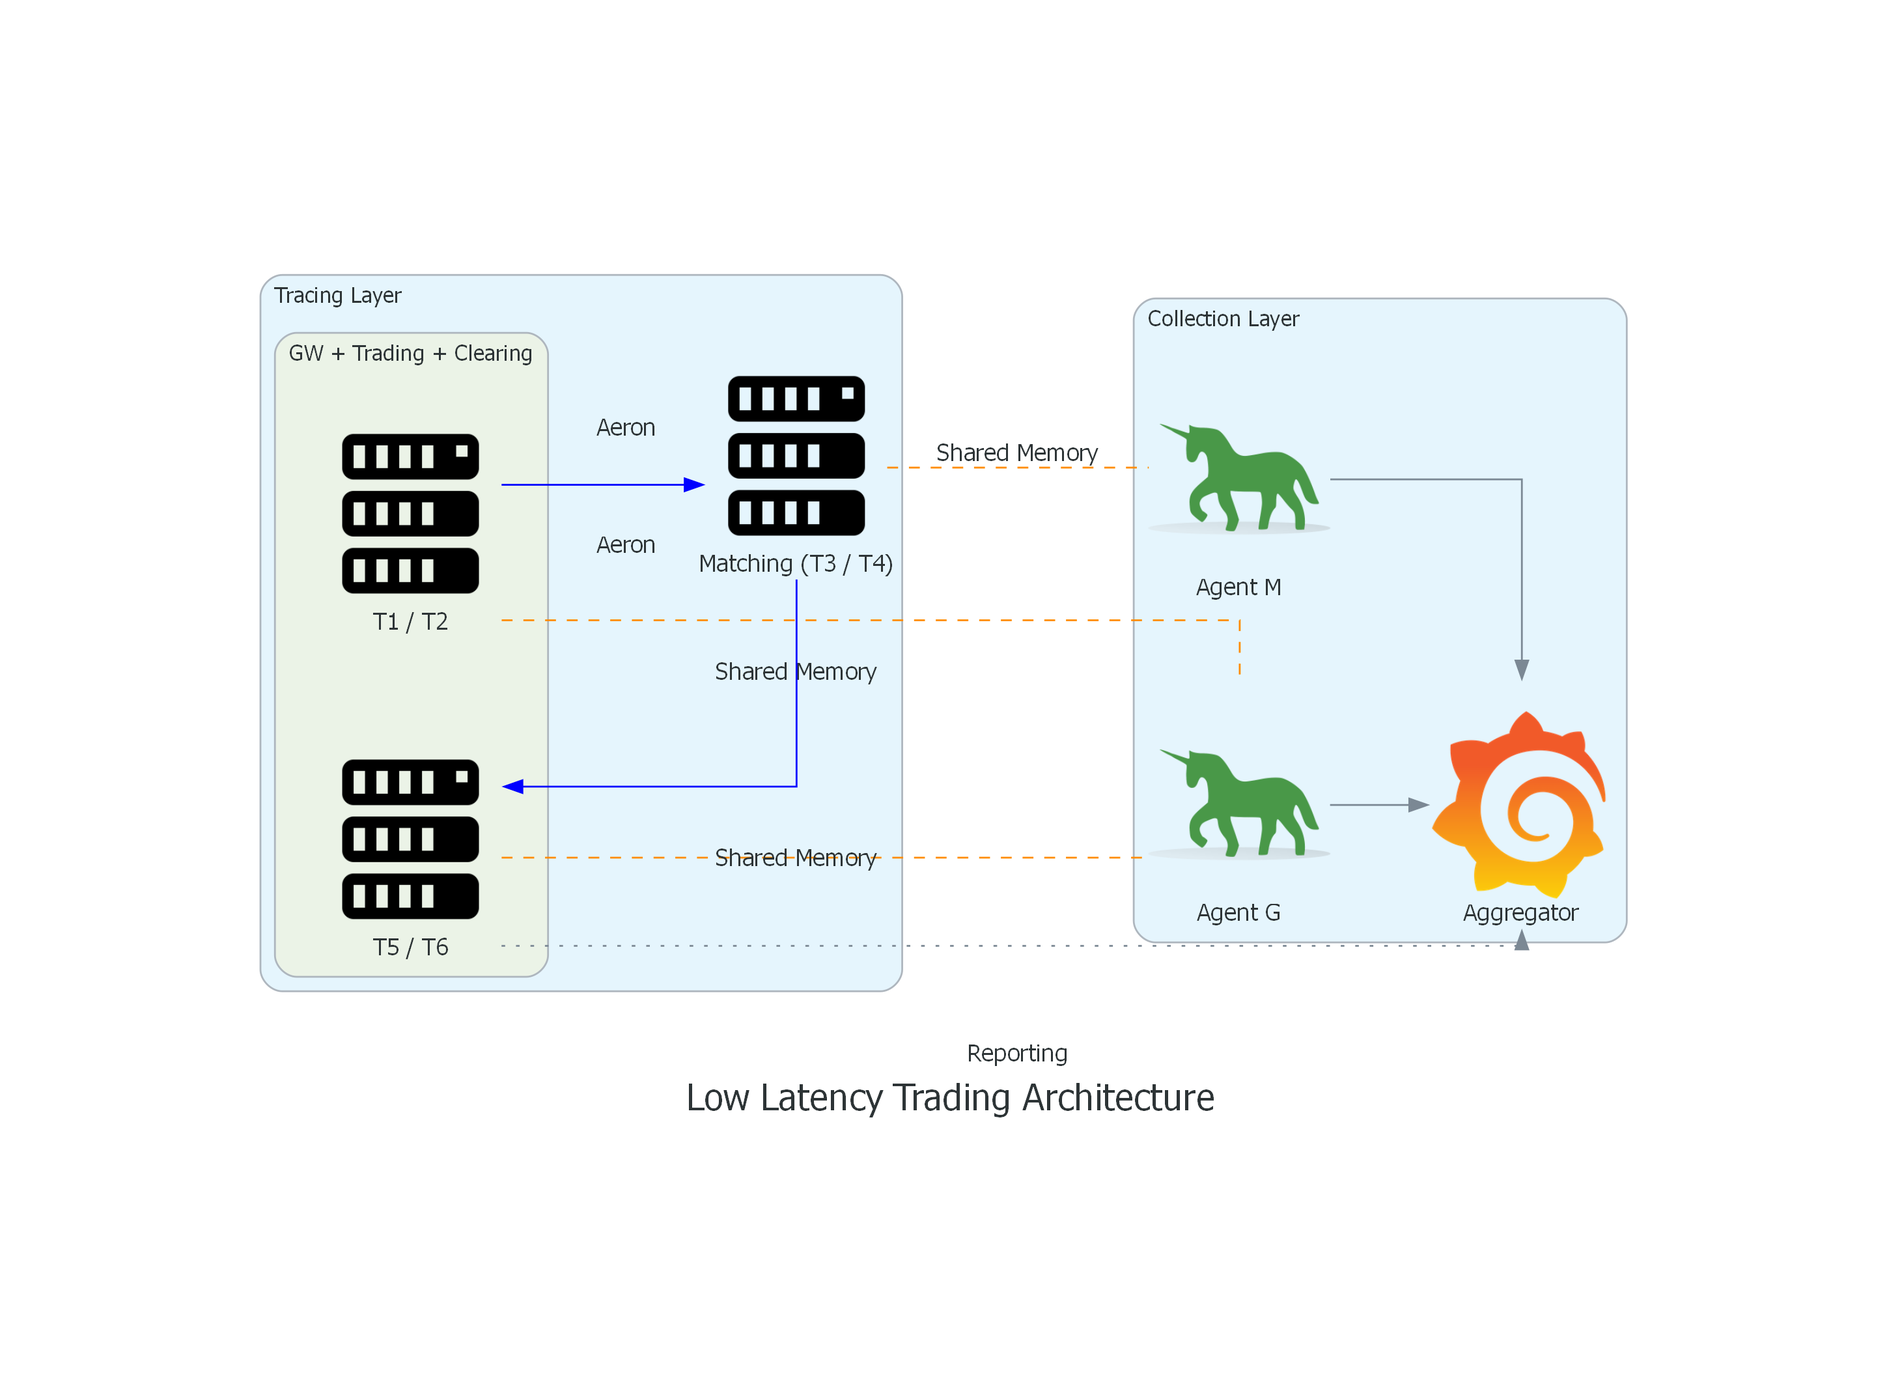
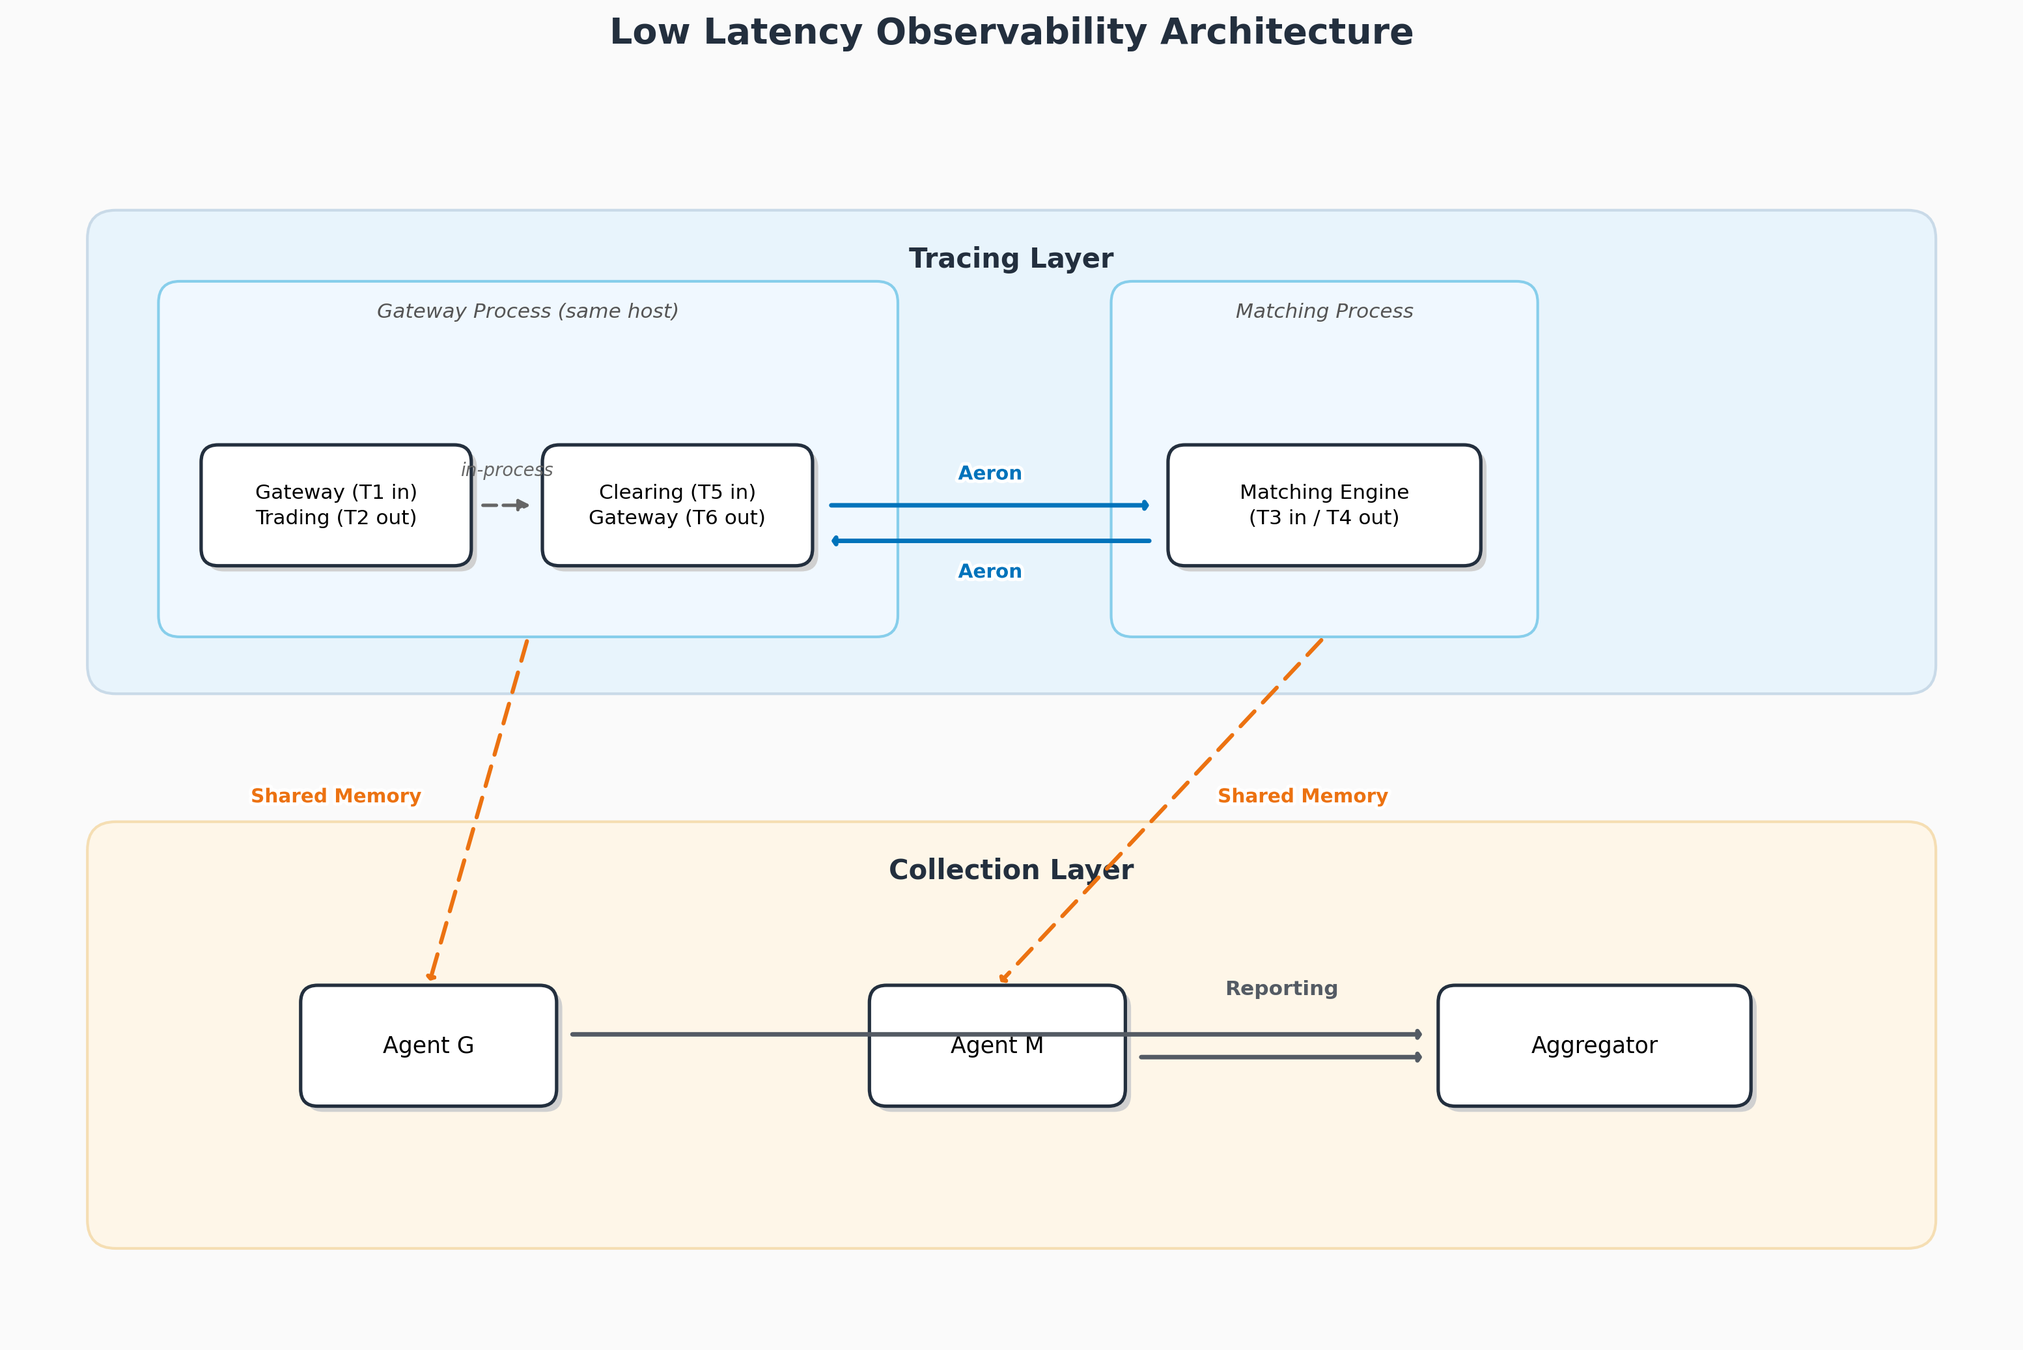
docs(observability): SDK approach, sampling interval, symmetric diagram
Add .gitattributes; ignore in benchmark/build/code-quality workflows

diff --git a/docs/scripts/generate_observability_diagram.py b/docs/scripts/generate_observability_diagram.py
@@ -2,22 +2,122 @@
 """
 生成低延迟可观测性架构图 (Tracing Layer + Collection Layer)。
 输出到 docs/images/observability_architecture.png
-依赖: pip install diagrams，且系统已安装 Graphviz (winget install graphviz.graphviz)。
+风格参考 AWS 架构图：圆角矩形、分组背景、清晰箭头与标签。
+依赖: pip install matplotlib
 """
 
 import os
+import matplotlib.pyplot as plt
+from matplotlib.patches import FancyBboxPatch, FancyArrowPatch
+import matplotlib.patheffects as path_effects
 
-from diagrams import Cluster, Diagram, Edge
-from diagrams.onprem.compute import Server
-from diagrams.onprem.monitoring import Grafana
-from diagrams.onprem.network import Gunicorn
+# ============================================================================
+# 风格常量 (AWS-style, 顶流级)
+# ============================================================================
+BG_COLOR = "#fafafa"
+GROUP_BG_TRACING = "#e8f4fc"
+GROUP_BG_COLLECTION = "#fef6e8"
+GROUP_BORDER = "#c9dae8"
+PROCESS_BG = "#f0f8ff"           # 进程分组背景（更浅的蓝）
+PROCESS_BORDER = "#87ceeb"
+BOX_BG = "#ffffff"
+BOX_BORDER = "#232f3e"
+BOX_SHADOW = "#d0d0d0"
+DATA_COLOR = "#0073bb"
+AERON_COLOR = "#0073bb"
+SHARED_MEM_COLOR = "#ec7211"
+REPORT_COLOR = "#545b64"
+FONT_NAME = "sans-serif"
+TITLE_SIZE = 16
+LAYER_LABEL_SIZE = 12
+LABEL_SIZE = 10
+SMALL_LABEL = 9
+DPI = 250
+FIG_W, FIG_H = 14, 8.5
+BOX_RADIUS = 0.12
+SHADOW_OFFSET = 0.04
 
-# 提高 DPI 使 PNG 文字更清晰（Graphviz 默认 96，文档用 200–300 为宜）
-graph_attr = {
-    "dpi": "200",
-    "fontsize": "20",
-    "bgcolor": "white",
-}
+
+def draw_box_with_shadow(ax, x, y, w, h, label_lines, radius=BOX_RADIUS):
+    """绘制带阴影的圆角矩形框。"""
+    shadow = FancyBboxPatch(
+        (x + SHADOW_OFFSET, y - SHADOW_OFFSET), w, h,
+        boxstyle=f"round,pad=0,rounding_size={radius}",
+        facecolor=BOX_SHADOW, edgecolor="none", zorder=1
+    )
+    ax.add_patch(shadow)
+    box = FancyBboxPatch(
+        (x, y), w, h,
+        boxstyle=f"round,pad=0,rounding_size={radius}",
+        facecolor=BOX_BG, edgecolor=BOX_BORDER, linewidth=1.5, zorder=2
+    )
+    ax.add_patch(box)
+    mid_y = y + h / 2
+    if len(label_lines) == 1:
+        ax.text(x + w / 2, mid_y, label_lines[0], fontsize=LABEL_SIZE,
+                ha="center", va="center", fontfamily=FONT_NAME, zorder=3)
+    else:
+        line_gap = 0.18
+        top_y = mid_y + line_gap * (len(label_lines) - 1) / 2
+        for i, line in enumerate(label_lines):
+            ax.text(x + w / 2, top_y - i * line_gap, line, fontsize=SMALL_LABEL,
+                    ha="center", va="center", fontfamily=FONT_NAME, zorder=3)
+    return x, y, w, h
+
+
+def draw_group_bg(ax, x, y, w, h, label, color, border_color, radius=0.2, label_pos="top"):
+    """绘制分组背景。"""
+    bg = FancyBboxPatch(
+        (x, y), w, h,
+        boxstyle=f"round,pad=0,rounding_size={radius}",
+        facecolor=color, edgecolor=border_color, linewidth=1.2, zorder=0
+    )
+    ax.add_patch(bg)
+    if label_pos == "top":
+        ax.text(x + w / 2, y + h - 0.25, label, fontsize=LAYER_LABEL_SIZE,
+                ha="center", va="top", fontweight="bold", color="#232f3e",
+                fontfamily=FONT_NAME, zorder=1)
+    else:
+        ax.text(x + w / 2, y + h - 0.15, label, fontsize=SMALL_LABEL,
+                ha="center", va="top", fontweight="normal", color="#555555",
+                fontfamily=FONT_NAME, fontstyle="italic", zorder=1)
+
+
+def draw_arrow(ax, start, end, color, style="solid", label=None, curved=False, label_offset=(0, 0.12)):
+    """绘制箭头。"""
+    if curved:
+        dx = end[0] - start[0]
+        dy = end[1] - start[1]
+        if abs(dy) > abs(dx):
+            rad = 0.25 if dx > 0 else -0.25
+        else:
+            rad = 0.15 if dy < 0 else -0.15
+        conn_style = f"arc3,rad={rad}"
+    else:
+        conn_style = "arc3,rad=0"
+
+    arrow = FancyArrowPatch(
+        start, end,
+        arrowstyle="-|>,head_width=0.12,head_length=0.08",
+        connectionstyle=conn_style,
+        color=color,
+        linewidth=2.0 if style == "solid" else 1.8,
+        linestyle="-" if style == "solid" else (0, (5, 3)),
+        zorder=4,
+        mutation_scale=12
+    )
+    ax.add_patch(arrow)
+
+    if label:
+        mid_x = (start[0] + end[0]) / 2 + label_offset[0]
+        mid_y = (start[1] + end[1]) / 2 + label_offset[1]
+        t = ax.text(mid_x, mid_y, label, fontsize=SMALL_LABEL - 0.5, ha="center", va="center",
+                    color=color, fontfamily=FONT_NAME, fontweight="bold", zorder=5)
+        t.set_path_effects([
+            path_effects.Stroke(linewidth=3, foreground="white"),
+            path_effects.Normal()
+        ])
+
 
 def main():
     script_dir = os.path.dirname(os.path.abspath(__file__))
@@ -26,37 +126,152 @@ def main():
     os.makedirs(images_dir, exist_ok=True)
     out_path = os.path.join(images_dir, "observability_architecture")
 
-    with Diagram(
-        "Low Latency Trading Architecture",
-        show=False,
-        direction="LR",
-        graph_attr=graph_attr,
-        filename=out_path,
-    ):
-        with Cluster("Tracing Layer"):
-            with Cluster("GW + Trading + Clearing"):
-                gw_in = Server("T1 / T2")
-                gw_out = Server("T5 / T6")
+    fig, ax = plt.subplots(1, 1, figsize=(FIG_W, FIG_H), facecolor=BG_COLOR)
+    ax.set_facecolor(BG_COLOR)
+    ax.set_aspect("equal")
+    ax.axis("off")
+    ax.set_xlim(0, 14)
+    ax.set_ylim(0, 8.5)
 
-            matching = Server("Matching (T3 / T4)")
+    # ========================================================================
+    # 布局参数
+    # ========================================================================
+    tracing_y = 4.5
+    tracing_h = 3.4
+    collection_y = 0.6
+    collection_h = 3.0
 
-            gw_in >> Edge(label="Aeron", color="blue") >> matching
-            matching >> Edge(label="Aeron", color="blue") >> gw_out
+    box_h = 0.85
+    box_w = 1.9
+    box_w_mid = 2.2
 
-        with Cluster("Collection Layer"):
-            aggregator = Grafana("Aggregator")
-            agent_g = Gunicorn("Agent G")
-            agent_m = Gunicorn("Agent M")
+    # ========================================================================
+    # Tracing Layer
+    # ========================================================================
+    draw_group_bg(ax, 0.5, tracing_y, 13, tracing_h, "Tracing Layer",
+                  GROUP_BG_TRACING, GROUP_BORDER)
 
-            agent_g >> aggregator
-            agent_m >> aggregator
+    # --- Gateway Process 子分组 (包含左右两个框) ---
+    gw_process_x = 1.0
+    gw_process_w = 5.2
+    gw_process_y = tracing_y + 0.4
+    gw_process_h = 2.5
+    draw_group_bg(ax, gw_process_x, gw_process_y, gw_process_w, gw_process_h,
+                  "Gateway Process (same host)", PROCESS_BG, PROCESS_BORDER, radius=0.15, label_pos="bottom")
 
-        gw_in - Edge(color="darkorange", style="dashed", label="Shared Memory") - agent_g
-        gw_out - Edge(color="darkorange", style="dashed", label="Shared Memory") - agent_g
-        matching - Edge(color="darkorange", style="dashed", label="Shared Memory") - agent_m
+    tracing_box_y = gw_process_y + 0.5
+    mid_y_tracing = tracing_box_y + box_h / 2
 
-        gw_out >> Edge(style="dotted", label="Reporting") >> aggregator
+    # Box 1: Gateway + Trading (T1, T2)
+    x1 = gw_process_x + 0.3
+    draw_box_with_shadow(ax, x1, tracing_box_y, box_w, box_h,
+                         ["Gateway (T1 in)", "Trading (T2 out)"])
+    p1_right = x1 + box_w
+    p1_center = x1 + box_w / 2
 
+    # Box 3: Clearing + Gateway (T5, T6) - 在同一进程分组内
+    x3 = x1 + box_w + 0.5
+    draw_box_with_shadow(ax, x3, tracing_box_y, box_w, box_h,
+                         ["Clearing (T5 in)", "Gateway (T6 out)"])
+    p3_right = x3 + box_w
+    p3_center = x3 + box_w / 2
+
+    # --- Matching Engine (独立进程) ---
+    me_process_x = gw_process_x + gw_process_w + 1.5
+    me_process_w = 3.0
+    me_process_h = 2.5
+    draw_group_bg(ax, me_process_x, gw_process_y, me_process_w, me_process_h,
+                  "Matching Process", PROCESS_BG, PROCESS_BORDER, radius=0.15, label_pos="bottom")
+
+    x2 = me_process_x + (me_process_w - box_w_mid) / 2
+    draw_box_with_shadow(ax, x2, tracing_box_y, box_w_mid, box_h,
+                         ["Matching Engine", "(T3 in / T4 out)"])
+    p2_left = x2
+    p2_right = x2 + box_w_mid
+    p2_center = x2 + box_w_mid / 2
+
+    # --- Aeron 箭头 ---
+    # Gateway Process → Matching Engine
+    arrow1_start = (p3_right + 0.1, mid_y_tracing)
+    arrow1_end = (p2_left - 0.1, mid_y_tracing)
+    draw_arrow(ax, arrow1_start, arrow1_end, AERON_COLOR, label="Aeron", label_offset=(0, 0.22))
+
+    # Matching Engine → Gateway Process (返回)
+    arrow2_start = (p2_left - 0.1, mid_y_tracing - 0.25)
+    arrow2_end = (p3_right + 0.1, mid_y_tracing - 0.25)
+    draw_arrow(ax, arrow2_start, arrow2_end, AERON_COLOR, label="Aeron", label_offset=(0, -0.22))
+
+    # 内部流向箭头 (T2 out → T5 in 的概念，用虚线表示同进程内流转)
+    ax.annotate("", xy=(x3 - 0.05, mid_y_tracing), xytext=(p1_right + 0.05, mid_y_tracing),
+                arrowprops=dict(arrowstyle="-|>", color="#666666", lw=1.5, ls=(0, (4, 2))))
+    ax.text((p1_right + x3) / 2, mid_y_tracing + 0.18, "in-process", fontsize=8,
+            ha="center", va="bottom", color="#666666", fontstyle="italic")
+
+    # ========================================================================
+    # Collection Layer
+    # ========================================================================
+    draw_group_bg(ax, 0.5, collection_y, 13, collection_h, "Collection Layer",
+                  GROUP_BG_COLLECTION, "#f5deb3")
+
+    coll_box_y = collection_y + 1.0
+    coll_box_h = 0.85
+    coll_box_w = 1.8
+    agg_box_w = 2.2
+    mid_y_coll = coll_box_y + coll_box_h / 2
+
+    # Agent G (对应 Gateway Process)
+    xg = 2.0
+    draw_box_with_shadow(ax, xg, coll_box_y, coll_box_w, coll_box_h, ["Agent G"])
+    pg_center = xg + coll_box_w / 2
+    pg_right = xg + coll_box_w
+    pg_top = coll_box_y + coll_box_h
+
+    # Agent M (对应 Matching Process)
+    xm = 6.0
+    draw_box_with_shadow(ax, xm, coll_box_y, coll_box_w, coll_box_h, ["Agent M"])
+    pm_center = xm + coll_box_w / 2
+    pm_right = xm + coll_box_w
+    pm_top = coll_box_y + coll_box_h
+
+    # Aggregator
+    xa = 10.0
+    draw_box_with_shadow(ax, xa, coll_box_y, agg_box_w, coll_box_h, ["Aggregator"])
+    pa_left = xa
+
+    # ========================================================================
+    # Shared Memory 箭头 (Tracing → Collection)
+    # ========================================================================
+    # Gateway Process → Agent G (从进程分组底部到 Agent G 顶部)
+    gw_process_bottom = gw_process_y
+    gw_process_center = gw_process_x + gw_process_w / 2
+    draw_arrow(ax, (gw_process_center, gw_process_bottom), (pg_center, pg_top),
+               SHARED_MEM_COLOR, style="dashed", label="Shared Memory", curved=False, label_offset=(-1.0, 0.1))
+
+    # Matching Process → Agent M
+    me_process_bottom = gw_process_y
+    me_process_center = me_process_x + me_process_w / 2
+    draw_arrow(ax, (me_process_center, me_process_bottom), (pm_center, pm_top),
+               SHARED_MEM_COLOR, style="dashed", label="Shared Memory", curved=False, label_offset=(1.0, 0.1))
+
+    # ========================================================================
+    # Reporting 箭头 (Agents → Aggregator)
+    # ========================================================================
+    draw_arrow(ax, (pg_right + 0.08, mid_y_coll + 0.08), (pa_left - 0.08, mid_y_coll + 0.08),
+               REPORT_COLOR, label="", label_offset=(0, 0))
+    draw_arrow(ax, (pm_right + 0.08, mid_y_coll - 0.08), (pa_left - 0.08, mid_y_coll - 0.08),
+               REPORT_COLOR, label="", label_offset=(0, 0))
+    ax.text((pm_right + pa_left) / 2, mid_y_coll + 0.4, "Reporting", fontsize=SMALL_LABEL,
+            ha="center", va="center", color=REPORT_COLOR, fontweight="bold", fontfamily=FONT_NAME)
+
+    # ========================================================================
+    # 标题
+    # ========================================================================
+    fig.suptitle("Low Latency Observability Architecture",
+                 fontsize=TITLE_SIZE, fontweight="bold", y=0.97, fontfamily=FONT_NAME, color="#232f3e")
+
+    plt.tight_layout(rect=[0, 0, 1, 0.95])
+    plt.savefig(out_path + ".png", dpi=DPI, bbox_inches="tight", facecolor=BG_COLOR, edgecolor="none")
+    plt.close()
     print(f"图表已保存到: {out_path}.png")
 
 

diff --git a/docs/research/LOW_LATENCY_OBSERVABILITY.md b/docs/research/LOW_LATENCY_OBSERVABILITY.md
@@ -104,22 +104,27 @@ RDMA NIC（如 NVIDIA ConnectX）支持 **RoCE Time-Stamping**：
 
 ### 3.1 设计原则
 
+> **设计取舍**：最初考虑将追踪逻辑下沉到 Aeron 通信层（类似 Istio sidecar），实现业务代码零感知。但综合评估后，采用**轻量 SDK + 应用层接入**更优——应用可自行决定打点位置、灵活控制采样、避免通信层耦合，且便于跨通信协议复用。
+
 | 原则 | 说明 |
 |------|------|
-| **零应用侵入** | 追踪逻辑下沉到通信层，业务代码无感知 |
+| **轻量 SDK 接入** | 提供 SDK，应用层显式调用；侵入极小（几行代码），但保留灵活性 |
 | **亚微秒开销** | 单消息追踪开销 <1µs |
 | **无偏延迟计算** | 通过消差算法抵消时钟偏差 |
-| **分级采样** | 生产环境低采样率 |
+| **分级采样** | 生产环境按时间间隔低采样（默认 100ms） |
 
 ### 3.2 整体架构
 
 ![低延迟可观测性架构](../images/observability_architecture.png)
 
-**说明**：上为追踪层 Gateway + Trading (同进程) (T1→T2) → Aeron → Matching (T3→T4) → Aeron → Gateway + Trading + Clearing (T5→T6)；下为采集层两节点经共享内存上报 Aggregator。图由 `docs/scripts/generate_observability_diagram.py` 生成。
+**说明**：
+- **Tracing Layer**：Gateway Process（同主机）包含 Gateway (T1 in) → Trading (T2 out) 与 Clearing (T5 in) → Gateway (T6 out)，通过 Aeron 与 Matching Process 双向通信。
+- **Collection Layer**：Agent G 采集 Gateway Process、Agent M 采集 Matching Process，均通过共享内存；两 Agent 上报至 Aggregator。
+- 图由 `docs/scripts/generate_observability_diagram.py` 生成（风格参考 AWS 架构图，DPI=250）。
 
 ### 3.3 消息头扩展设计
 
-在 Aeron 消息体前增加 **13 字节追踪头**，采用 SBE 编码：
+应用通过 SDK 在消息体前附加 **13 字节追踪头**（可选），采用 SBE 编码：
 
 ```xml
 <sbe:message name="TraceHeader" id="1">
@@ -219,14 +224,18 @@ inline uint64_t rdtsc_ns() {
 
 ### 3.7 采样策略
 
-**采样决策仅在 Gateway**：Gateway 按配置的采样比率决定是否采样；采样时生成非零 traceId 并写入 TraceHeader、上报，不采样时 traceId 置 0 或不带 TraceHeader。下游仅根据 traceId 是否非零判断是否上报。
+**采样决策仅在 Gateway**：Gateway 按配置的**采样间隔**（时间间隔）决定是否采样——例如「每 100ms 最多采样 1 条」；满足间隔时生成非零 traceId 并写入 TraceHeader、上报，否则 traceId 置 0 或不带 TraceHeader。下游仅根据 traceId 是否非零判断是否上报。
 
-| 环境 | 采样比率 | 说明 |
+**默认值 100ms**：为防止多组件/多环境配置错配导致采样行为不一致，**默认采样间隔为 100ms**（即未显式配置时采用此值），需更密集采样时再显式调小。
+
+**为何用时间间隔而非百分比**：百分比在高 QPS 下会导致采样量随流量线性增长（如 1% × 100k msg/s = 1000 条/秒），难以控制开销与存储；时间间隔可固定采样率（如每 100ms 一条 = 10 条/秒），与流量解耦，更利于低延迟场景的资源预算。
+
+| 环境 | 采样间隔 | 说明 |
 |------|----------|------|
-| **开发/测试** | 可配置 | 100% 或关闭；用于验证正确性 |
-| **预发** | 100% | 全量采集，建立基线 |
+| **开发/测试** | 可配置 | 0（全量）或关闭；用于验证正确性 |
+| **预发** | 0（全量） | 全量采集，建立基线 |
 | **灰度** | 与生产一致 | 验证采样配置与负载 |
-| **生产** | 0.1%–1% | 低采样 |
+| **生产** | 默认 100ms，可调小 | 每间隔内最多 1 条，低采样、可控 QPS |
 
 ### 3.8 数据聚合与可视化
 
@@ -290,7 +299,7 @@ inline uint64_t rdtsc_ns() {
 | 维度 | 本方案 | OpenTelemetry | libpcap |
 |------|--------|---------------|---------|
 | **单消息开销** | ~200ns | 10-100µs | 0 (旁路) |
-| **应用侵入** | 零 | 需埋点 | 零 |
+| **应用侵入** | 极小（SDK 几行） | 需埋点 | 零 |
 | **延迟拆解** | ✅ 网络+本地 | ✅ Span 级 | ⚠ 仅端到端 |
 | **跨节点关联** | ✅ TraceID | ✅ TraceID | ❌ 需自行关联 |
 | **时钟偏差处理** | ✅ 消差算法 | ❌ 依赖 NTP | ❌ 依赖 NTP |
@@ -320,5 +329,5 @@ inline uint64_t rdtsc_ns() {
 
 ---
 
-*文档版本: 1.0 | 创建日期: 2026-01-29*
-*聚焦: 低延迟分布式系统可观测性 + 微秒级延迟追踪 + 零侵入设计*
+*文档版本: 1.1 | 创建日期: 2026-01-29 | 更新: 2026-01-30*
+*聚焦: 低延迟分布式系统可观测性 + 微秒级延迟追踪 + 轻量 SDK 接入*
